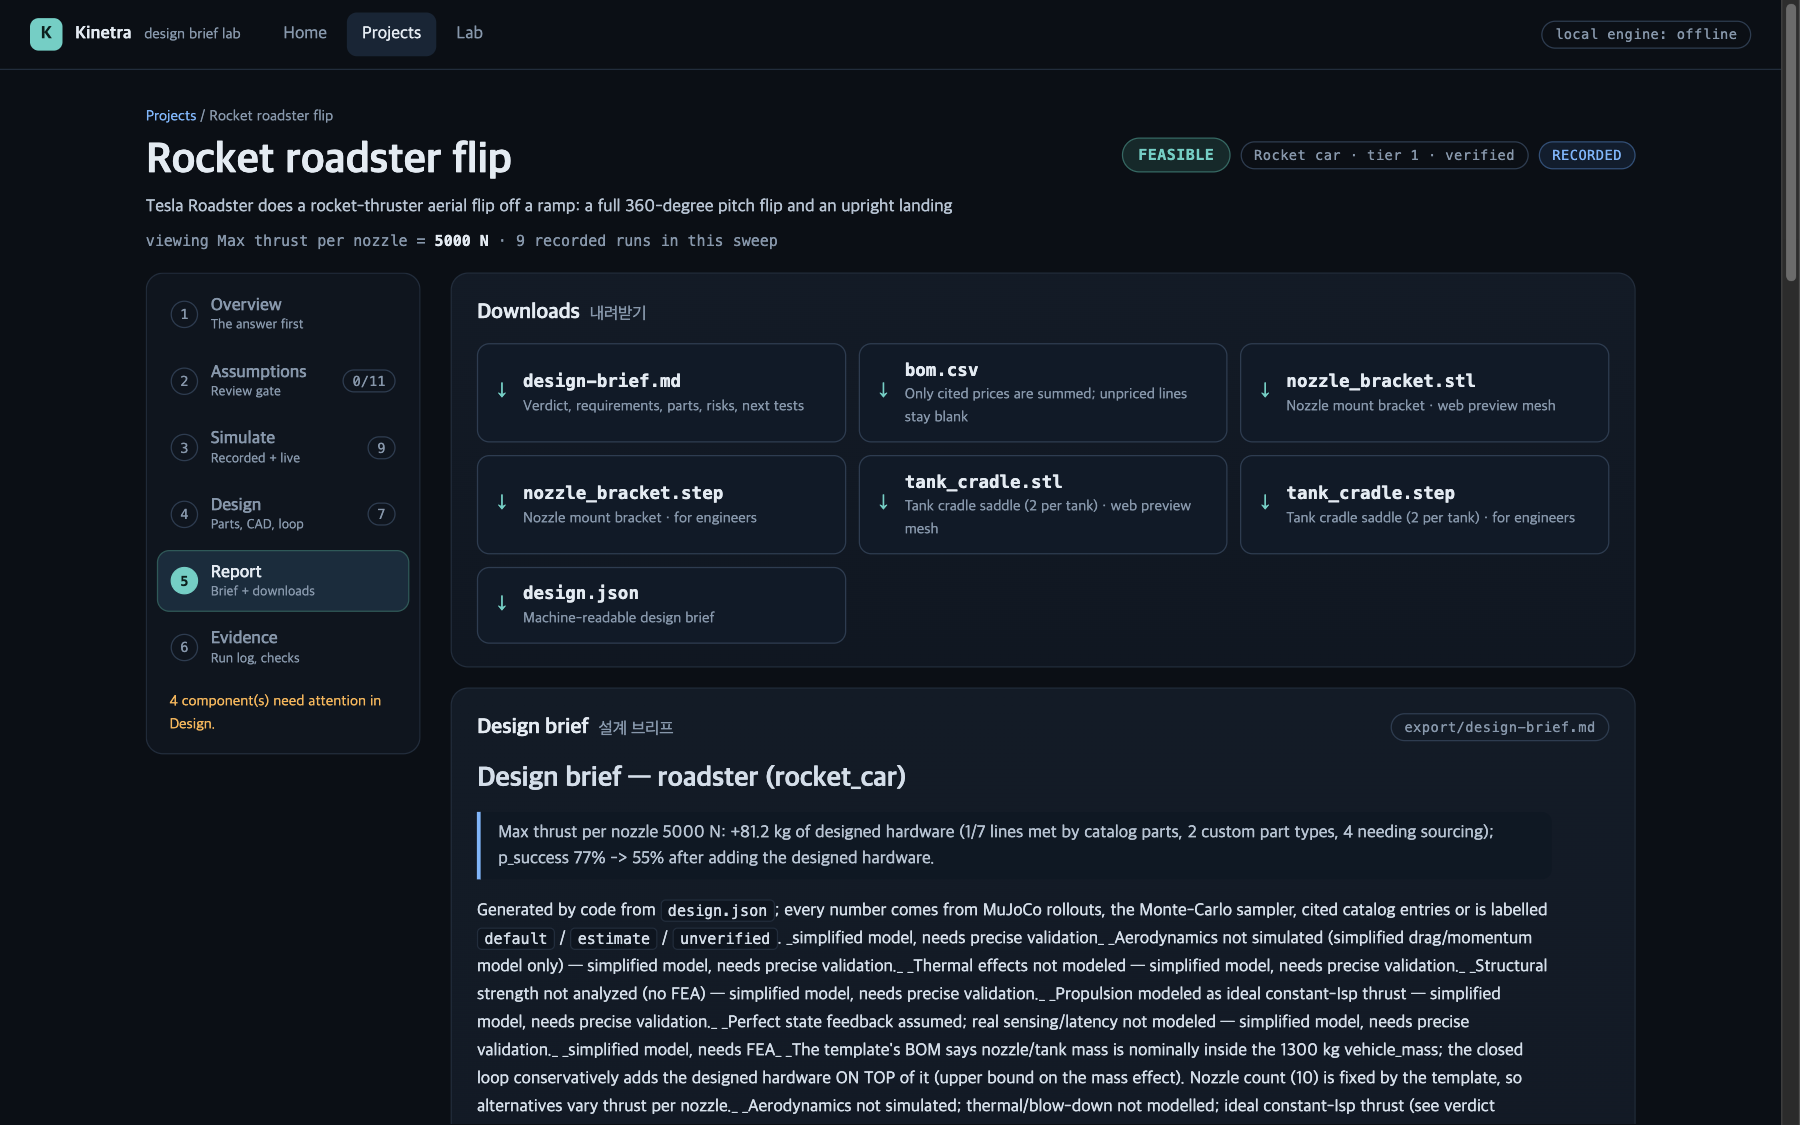
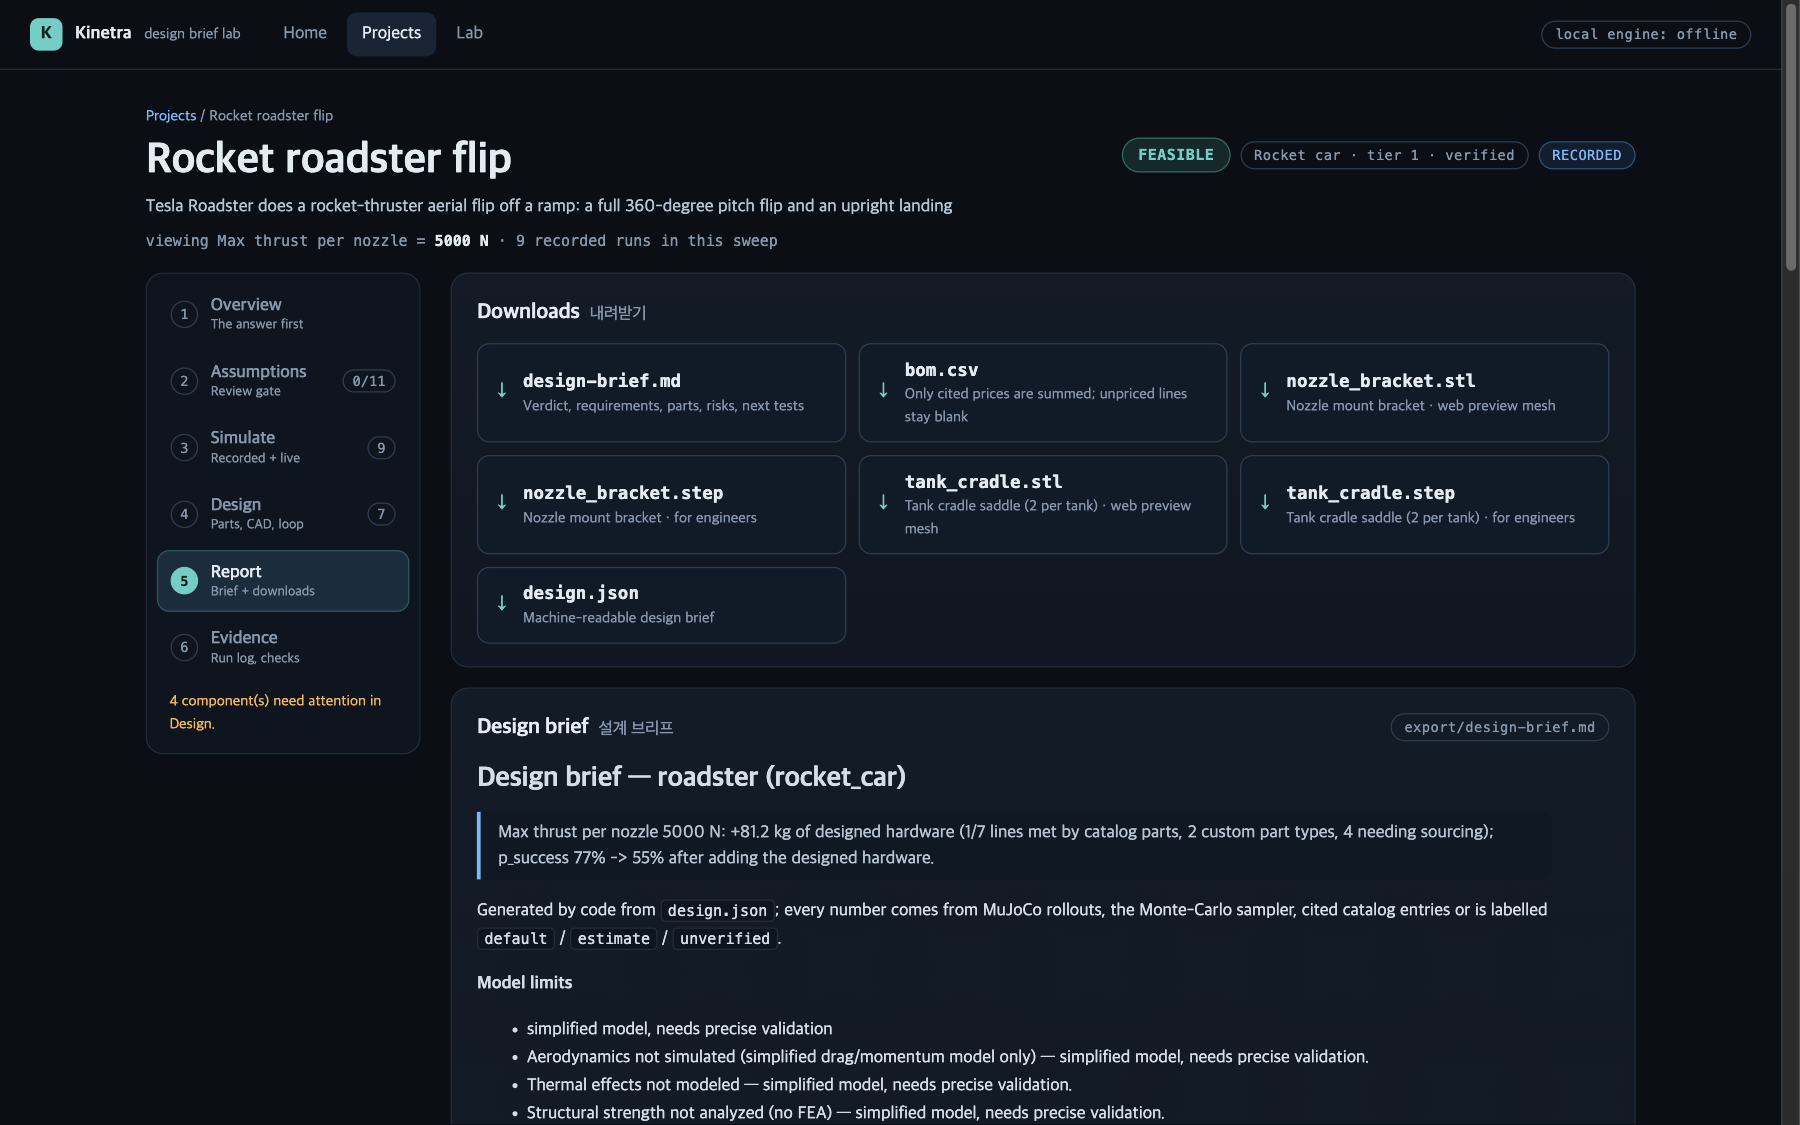
Design tab: free-form load cases (torque for humanoid parts), extra design screenshots

Changed region(s): [[0.2489, 0.8089, 0.8711, 0.9956], [0.9956, 0.2178, 1.0, 0.2489]]

diff --git a/apps/web/src/pages/tabs/Design.tsx b/apps/web/src/pages/tabs/Design.tsx
@@ -197,8 +197,10 @@ function CustomParts({ b, bundle }: { b: DesignBrief; bundle: DesignBundle }) {
               <div className="kv mono small">
                 {Object.entries(p.params).map(([k, v]) => <div key={k}><span>{k}</span><b>{String(v)}</b></div>)}
               </div>
-              {p.load_case && (p.load_case.force_N !== null || p.load_case.safety_factor !== null) && (
-                <p className="small">Load case: {p.load_case.force_N !== null && <b className="mono">{fmt(p.load_case.force_N, 4)} N</b>}{p.load_case.force_N !== null && p.load_case.safety_factor !== null && ', '}{p.load_case.safety_factor !== null && <>safety factor <b className="mono">{p.load_case.safety_factor}</b></>}</p>
+              {p.load_case && Object.keys(p.load_case).length > 0 && (
+                <p className="small">Load case: {Object.entries(p.load_case).map(([k, v], i) => (
+                  <span key={k}>{i > 0 && ', '}{k.replace(/_/g, ' ').replace(/\s(N|Nm|g)$/, '').trim()} <b className="mono">{typeof v === 'number' ? fmt(v, 4) : v}{k.endsWith('_N') ? ' N' : k.endsWith('_Nm') ? ' N·m' : k.endsWith('_g') ? ' g' : ''}</b></span>
+                ))}</p>
               )}
               {[...(p.check ? [p.check] : []), ...p.extra_checks].map((ck, i) => (
                 <div key={i} className={`callout ${ck.ok ? '' : 'bad'}`}>

diff --git a/apps/web/src/lib/design.ts b/apps/web/src/lib/design.ts
@@ -66,7 +66,8 @@ export interface DCustomPart {
   cad_stl: string | null
   cad_step: string | null
   quantity: number
-  load_case: { force_N: number | null; safety_factor: number | null } | null
+  /** Free-form per part (force_N, torque_Nm, decel_g, safety_factor, ...). */
+  load_case: Record<string, number | string> | null
   check: DCheck | null
   extra_checks: DCheck[]
   note: string
@@ -212,7 +213,7 @@ export function normalizeDesign(raw: any): DesignBrief {
       cad_stl: p.cad_stl ?? null,
       cad_step: p.cad_step ?? null,
       quantity: Number(p.quantity ?? 1),
-      load_case: p.load_case ? { force_N: numOrNull(p.load_case.force_N), safety_factor: numOrNull(p.load_case.safety_factor) } : null,
+      load_case: p.load_case && typeof p.load_case === 'object' ? (p.load_case as Record<string, number | string>) : null,
       check: p.check ? normCheck(p.check) : null,
       extra_checks: arr<any>(p.extra_checks).map(normCheck),
       note: String(p.note ?? ''),

diff --git a/apps/web/src/index.css b/apps/web/src/index.css
@@ -338,3 +338,6 @@ button.vs-cell { cursor: pointer; } button.vs-cell:hover { border-color: var(--a
 }
 .step-body, .step-sum, .step-top { min-width: 0; overflow-wrap: anywhere; } .steps, .step { min-width: 0; }
 .stack > * { min-width: 0; }
+.grid2 > *, .ar > * , .ar .grid2 > * { min-width: 0; }
+.ar { min-width: 0; }
+@media (max-width: 860px) { .grid2, .grid2.top { grid-template-columns: minmax(0, 1fr); } }

diff --git a/README.md b/README.md
@@ -30,6 +30,10 @@ Real captures (1440x900) of the production build on the committed bundles and de
 |---|---|
 | ![Design](apps/web/screenshots/project-design.png) | ![Report](apps/web/screenshots/project-report.png) |
 
+| Design: custom parts with 3D CAD preview and hand-calc checks | Design: closed loop (mass fed back, verdict re-run) |
+|---|---|
+| ![Parts](apps/web/screenshots/project-design-parts.png) | ![Closed loop](apps/web/screenshots/project-design-loop.png) |
+
 | Evidence | Lab |
 |---|---|
 | ![Evidence](apps/web/screenshots/project-evidence.png) | ![Lab](apps/web/screenshots/lab.png) |
